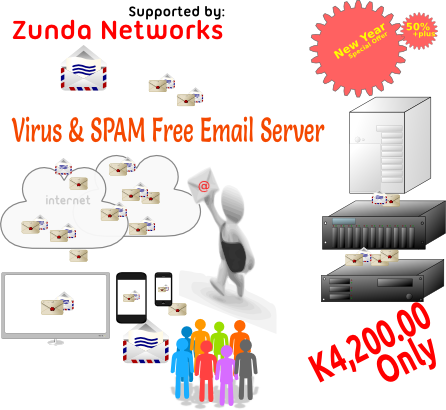
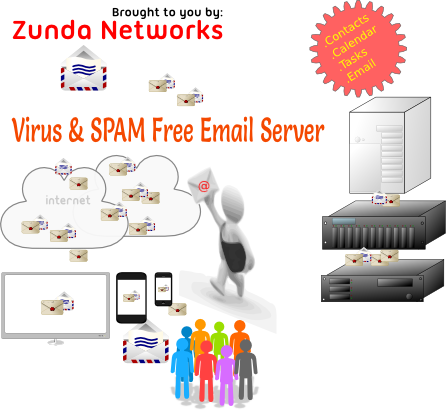
updated contact details & mail-server page

Changed region(s): [[0.6996, 0.7317, 0.991, 0.9366], [0.7287, 0.0293, 0.991, 0.2049], [0.2332, 0.0, 0.4955, 0.0585]]

diff --git a/contact/index.html b/contact/index.html
@@ -3,7 +3,7 @@ Compliant ICT technologies to allow business houses and home users to easily car
 motto:Conquer ICT ⟶ Improve Living standards"><meta name="keywords" content="CMS, nosql, website development, document management, search engine appliance, nodejs, angularjs, mobile first, database, email server, email, web server, ubuntu linux, linux, networking, zunda networks, zunda, networks, mobile, apps, monogdb, couchdb, pouchdb, indexeddb, javascript, php, python, css, html5, design, ux, gis, geospacial, map, sailsjs, zambia, it solutions, social, business, software, dynamic website, CRM, NoCMS, D3, D3.js, visualization, virtualisation"><meta name="author" content="Zunda Networks"><meta name="generator" content="DocPad v6.57.2" /><meta name="viewport" content="width=device-width"><!-- Icons--><link rel="shortcut icon" href="/ico/favicon.ico"><link rel="apple-touch-icon-precomposed" sizes="144x144" href="/ico/apple-touch-icon-144-precomposed.png"><link rel="apple-touch-icon-precomposed" sizes="114x114" href="/ico/apple-touch-icon-114-precomposed.png"><link rel="apple-touch-icon-precomposed" sizes="72x72" href="/ico/apple-touch-icon-72-precomposed.png"><link rel="apple-touch-icon-precomposed" href="/ico/apple-touch-icon-57-precomposed.png"><!--[if lt IE 9]><script async src="http://html5shim.googlecode.com/svn/trunk/html5.js"></script><![endif]--><!-- Styles--><link  rel="stylesheet" href="/vendor/prettify.css" /><link  rel="stylesheet" href="/vendor/twitter-bootstrap/css/bootstrap.css" /><link  rel="stylesheet" href="/vendor/twitter-bootstrap/css/bootstrap-responsive.css" /><link  rel="stylesheet" href="/vendor/colorbox/colorbox.css" /><link  rel="stylesheet" href="/styles/font.css" /><link  rel="stylesheet" href="/styles/style.css" /></head><body><!-- Markup--><div class="navbar navbar-fixed-top"><div class="navbar-inner"><div class="container"><a href="/" class="brand">Zunda Networks</a><ul class="nav"><li typeof="sioc:Page" about="/about/"><a href="/about/" property="dc:title">About Us</a></li><li typeof="sioc:Page" about="/services/"><a href="/services/" property="dc:title">What We Do</a></li><li typeof="sioc:Page" about="/projects/"><a href="/projects/" property="dc:title">Projects</a></li><li typeof="sioc:Page" about="/blog/"><a href="/blog/" property="dc:title">Blog</a></li><li typeof="sioc:Page" about="/contact/" class="active"><a href="/contact/" property="dc:title">Contact Us</a></li></ul><ul class="nav pull-right social"><li><a href="https://twitter.com/zundanetworks" title="Zunda Networks on Twitter" class="twitter"><span class="icon icon-twitter"></span></a></li><!--li<a href="https://linkedin.com/zundanetworks" title="Zunda Networks on Linkedin" class="linkedin"><span class="icon icon-linkedin">Linkedin</span></a>--><!--li<a href="https://facebook.com/zundanetworks" title="Zunda Networks on Facebook" class="facebook"><span class="icon icon-facebook"></span></a>--><li><a href="https://github.com/zundanetworks" title="Zunda Networks on Github" class="github"><i class="icon icon-github"></i></a></li><li><a href="/atom.xml" title="Zunda Networks RSS feed" class="rss"><i class="icon icon-feed"></i></a></li></ul></div></div></div><div class="container wrapper"><section id="content" class="content"><div class="container"><div class="hero-unit contact-form"><div class="row"><div class="span4"><p><strong><em>We would like to here from you.</em></strong></p>
 <p><strong>Zunda Networks</strong></p>
 <p>Lusaka, Zambia<br>
-<strong>Tel</strong>: +260-961-931568<br>
+<strong>Tel</strong>: +260-955-515819<br>
 <strong>Email</strong>: sales@zundanetworks.com<br>
 <strong>Hours</strong>: Monday - Friday: 8:00 AM to 5:00 PM</p>
[1 lines of base64/hex data omitted]

diff --git a/mail-server/index.html b/mail-server/index.html
@@ -1,3 +1,3 @@
-<!DOCTYPE html><html lang="en"><head><!-- Meta--><meta charset="utf-8"><meta http-equiv="content-type" content="text/html; charset=utf-8"><meta http-equiv="X-UA-Compatible" content="IE=edge,chrome=1"><title>Enterprise eMail Server for only K4,200.00 | Zunda Networks</title><meta name="description" content="Zunda Networks is an ICT Services outfit specialising in innovative application of “Open Source” and “Open Standards”
+<!DOCTYPE html><html lang="en"><head><!-- Meta--><meta charset="utf-8"><meta http-equiv="content-type" content="text/html; charset=utf-8"><meta http-equiv="X-UA-Compatible" content="IE=edge,chrome=1"><title>Enterprise eMail Server | Zunda Networks</title><meta name="description" content="Zunda Networks is an ICT Services outfit specialising in innovative application of “Open Source” and “Open Standards”
 Compliant ICT technologies to allow business houses and home users to easily carry out their day to day activities. Our products defy vendor lock-in.
-motto:Conquer ICT ⟶ Improve Living standards"><meta name="keywords" content="CMS, nosql, website development, document management, search engine appliance, nodejs, angularjs, mobile first, database, email server, email, web server, ubuntu linux, linux, networking, zunda networks, zunda, networks, mobile, apps, monogdb, couchdb, pouchdb, indexeddb, javascript, php, python, css, html5, design, ux, gis, geospacial, map, sailsjs, zambia, it solutions, social, business, software, dynamic website, CRM, NoCMS, D3, D3.js, visualization, virtualisation"><meta name="author" content="Zunda Networks"><meta name="generator" content="DocPad v6.57.2" /><meta name="viewport" content="width=device-width"><!-- Icons--><link rel="shortcut icon" href="/ico/favicon.ico"><link rel="apple-touch-icon-precomposed" sizes="144x144" href="/ico/apple-touch-icon-144-precomposed.png"><link rel="apple-touch-icon-precomposed" sizes="114x114" href="/ico/apple-touch-icon-114-precomposed.png"><link rel="apple-touch-icon-precomposed" sizes="72x72" href="/ico/apple-touch-icon-72-precomposed.png"><link rel="apple-touch-icon-precomposed" href="/ico/apple-touch-icon-57-precomposed.png"><!--[if lt IE 9]><script async src="http://html5shim.googlecode.com/svn/trunk/html5.js"></script><![endif]--><!-- Styles--><link  rel="stylesheet" href="/vendor/prettify.css" /><link  rel="stylesheet" href="/vendor/twitter-bootstrap/css/bootstrap.css" /><link  rel="stylesheet" href="/vendor/twitter-bootstrap/css/bootstrap-responsive.css" /><link  rel="stylesheet" href="/vendor/colorbox/colorbox.css" /><link  rel="stylesheet" href="/styles/font.css" /><link  rel="stylesheet" href="/styles/style.css" /></head><body><!-- Markup--><div class="navbar navbar-fixed-top"><div class="navbar-inner"><div class="container"><a href="/" class="brand">Zunda Networks</a><ul class="nav"><li typeof="sioc:Page" about="/about/"><a href="/about/" property="dc:title">About Us</a></li><li typeof="sioc:Page" about="/services/"><a href="/services/" property="dc:title">What We Do</a></li><li typeof="sioc:Page" about="/projects/"><a href="/projects/" property="dc:title">Projects</a></li><li typeof="sioc:Page" about="/blog/"><a href="/blog/" property="dc:title">Blog</a></li><li typeof="sioc:Page" about="/contact/"><a href="/contact/" property="dc:title">Contact Us</a></li></ul><ul class="nav pull-right social"><li><a href="https://twitter.com/zundanetworks" title="Zunda Networks on Twitter" class="twitter"><span class="icon icon-twitter"></span></a></li><!--li<a href="https://linkedin.com/zundanetworks" title="Zunda Networks on Linkedin" class="linkedin"><span class="icon icon-linkedin">Linkedin</span></a>--><!--li<a href="https://facebook.com/zundanetworks" title="Zunda Networks on Facebook" class="facebook"><span class="icon icon-facebook"></span></a>--><li><a href="https://github.com/zundanetworks" title="Zunda Networks on Github" class="github"><i class="icon icon-github"></i></a></li><li><a href="/atom.xml" title="Zunda Networks RSS feed" class="rss"><i class="icon icon-feed"></i></a></li></ul></div></div></div><div class="container wrapper"><section id="content" class="content"><article id="page" class="page"><h3 class="page-title">Enterprise eMail Server for only K4,200.00</h3><div class="page-content"><!-- Main hero unit for a primary marketing message or call to action.--><div class="hero-unit advert"><div class="row"><!--h2.page-title Enterprise eMail Server for only K4,200.00--><div class="span6"><img alt="Zunda Networks supported email server" src="/images/zunda-mail.png" style="float: left; width: auto"/><div style="text-decoration: line-through; font-style: italic; font-size: 21px; float: left; color:#333;" class="nomo-price">Usual Price : K9,300.00</div></div><div class="span6"><strong>Be Smart -> for only K4,200.00 get all this in our enterprise mail server<br></strong><!--span What you find in the box--><ol><li>Smart SPAM filtering</li><li>AntiVirus</li><li>Original sender verification</li><li>Virus free Operating System</li><li>1 Month free Zunda Networks support</li><li>Life time license</li><li>Unlimited email accounts</li><li>Calendar: Organize your time effectively and effortlessly, plan meetings with your colleagues with free/busy information, send meeting requests or book resources.</li><li>Address Book: Manage all your contacts and share them with others using the shared address book.</li><li>Task Management that works, allowing you to manage personal tasks or share them with colleagues to work much more effectively.</li><li>Group mailboxes and public folders can be used for all incoming support or sales emails</li><!--li--></ol><p><a href="/contact" style="text-align: left; font-size: 20px" class="btn btn-warning btn-large"><strong>Get in touch while offer lasts<br></strong><span style="text-align: left; font-size: 17px">sales@zundanetworks.com<br>Tel:+260-961-931568</span></a></p></div></div></div><!-- Example row of columns.--><div class="row"><div class="span"><p>Email has become a mission-critical application for any company, facilitating internal and external communication and collaboration. Our open source collaboration/groupware solution combines the usability of your existing mail clients like Outlook, Thunderbird etc, with its inbuilt webmail client and mobile device synchronisation.</p><p>The backend server thrives on the stability and flexibility of the virus free Linux Operating System</p><p>What we are offering you is a full replacement/alternative to Microsoft Exchange Server, with the added advantange of not running on a virus/malware prone Operating System that frees you from baby sitting a server, hence allowing your ICT staff to attend to more important tasks.</p></div></div></div></article></section><!--hr--></div><footer><div class="container"><hr><div>Copyright &copy; 2014 Zunda Networks</div><!--div(style="font-style:italic; font-size: 12px") This website was last updated at #{site.date}--></div></footer><!-- Scripts--><script defer="defer"  src="/vendor/prettify.js"></script><script defer="defer"  src="/vendor/jquery.js"></script><script defer="defer"  src="/vendor/twitter-bootstrap/js/bootstrap.js"></script><script defer="defer"  src="/vendor/modernizr.js"></script><script defer="defer"  src="/vendor/colorbox/colorbox.js"></script><script defer="defer"  src="/scripts/script.js"></script><script defer="defer"  src="/scripts/zunda.js"></script></body></html>
+motto:Conquer ICT ⟶ Improve Living standards"><meta name="keywords" content="CMS, nosql, website development, document management, search engine appliance, nodejs, angularjs, mobile first, database, email server, email, web server, ubuntu linux, linux, networking, zunda networks, zunda, networks, mobile, apps, monogdb, couchdb, pouchdb, indexeddb, javascript, php, python, css, html5, design, ux, gis, geospacial, map, sailsjs, zambia, it solutions, social, business, software, dynamic website, CRM, NoCMS, D3, D3.js, visualization, virtualisation"><meta name="author" content="Zunda Networks"><meta name="generator" content="DocPad v6.57.2" /><meta name="viewport" content="width=device-width"><!-- Icons--><link rel="shortcut icon" href="/ico/favicon.ico"><link rel="apple-touch-icon-precomposed" sizes="144x144" href="/ico/apple-touch-icon-144-precomposed.png"><link rel="apple-touch-icon-precomposed" sizes="114x114" href="/ico/apple-touch-icon-114-precomposed.png"><link rel="apple-touch-icon-precomposed" sizes="72x72" href="/ico/apple-touch-icon-72-precomposed.png"><link rel="apple-touch-icon-precomposed" href="/ico/apple-touch-icon-57-precomposed.png"><!--[if lt IE 9]><script async src="http://html5shim.googlecode.com/svn/trunk/html5.js"></script><![endif]--><!-- Styles--><link  rel="stylesheet" href="/vendor/prettify.css" /><link  rel="stylesheet" href="/vendor/twitter-bootstrap/css/bootstrap.css" /><link  rel="stylesheet" href="/vendor/twitter-bootstrap/css/bootstrap-responsive.css" /><link  rel="stylesheet" href="/vendor/colorbox/colorbox.css" /><link  rel="stylesheet" href="/styles/font.css" /><link  rel="stylesheet" href="/styles/style.css" /></head><body><!-- Markup--><div class="navbar navbar-fixed-top"><div class="navbar-inner"><div class="container"><a href="/" class="brand">Zunda Networks</a><ul class="nav"><li typeof="sioc:Page" about="/about/"><a href="/about/" property="dc:title">About Us</a></li><li typeof="sioc:Page" about="/services/"><a href="/services/" property="dc:title">What We Do</a></li><li typeof="sioc:Page" about="/projects/"><a href="/projects/" property="dc:title">Projects</a></li><li typeof="sioc:Page" about="/blog/"><a href="/blog/" property="dc:title">Blog</a></li><li typeof="sioc:Page" about="/contact/"><a href="/contact/" property="dc:title">Contact Us</a></li></ul><ul class="nav pull-right social"><li><a href="https://twitter.com/zundanetworks" title="Zunda Networks on Twitter" class="twitter"><span class="icon icon-twitter"></span></a></li><!--li<a href="https://linkedin.com/zundanetworks" title="Zunda Networks on Linkedin" class="linkedin"><span class="icon icon-linkedin">Linkedin</span></a>--><!--li<a href="https://facebook.com/zundanetworks" title="Zunda Networks on Facebook" class="facebook"><span class="icon icon-facebook"></span></a>--><li><a href="https://github.com/zundanetworks" title="Zunda Networks on Github" class="github"><i class="icon icon-github"></i></a></li><li><a href="/atom.xml" title="Zunda Networks RSS feed" class="rss"><i class="icon icon-feed"></i></a></li></ul></div></div></div><div class="container wrapper"><section id="content" class="content"><article id="page" class="page"><h3 class="page-title">Enterprise eMail Server</h3><div class="page-content"><!-- Main hero unit for a primary marketing message or call to action.--><div class="hero-unit advert"><div class="row"><!--h2.page-title Enterprise eMail Server for only K4,200.00--><div class="span6"><img alt="Zunda Networks supported email server" src="/images/zunda-mail.png" style="float: left; width: auto"/><!--div.nomo-price(style="text-decoration: line-through; font-style: italic; font-size: 21px; float: left; color:#333;").<Usual>Price : K</Usual>--></div><div class="span6"><!--strong Be Smart -> for only K get all this in our enterprise mail server<br>--><strong>Be Smart -> get all these features out of the box<br></strong><!--span What you find in the box--><ol><li>Smart SPAM filtering</li><li>AntiVirus</li><li>Original sender verification</li><li>Virus free Operating System</li><li>1 Month free Zunda Networks support</li><li>Life time license</li><!--li Unlimited email accounts--><li>Calendar: Organize your time effectively and effortlessly, plan meetings with your colleagues with free/busy information, send meeting requests or book resources.</li><li>Address Book: Manage all your contacts and share them with others using the shared address book.</li><li>Task Management that works, allowing you to manage personal tasks or share them with colleagues to work much more effectively.</li><li>Group mailboxes and public folders can be used for all incoming support or sales emails</li><!--li--></ol><p><a href="/contact" style="text-align: left; font-size: 20px" class="btn btn-warning btn-large"><strong>Get in touch<br></strong><span style="text-align: left; font-size: 17px">sales@zundanetworks.com<br>Tel:+260-955-515819</span></a></p></div></div></div><!-- Example row of columns.--><div class="row"><div class="span"><p>Email has become a mission-critical application for any company, facilitating internal and external communication and collaboration. Our open source collaboration/groupware solution combines the usability of your existing mail clients like Outlook, Thunderbird etc, with its inbuilt webmail client and mobile device synchronisation.</p><p>The backend server thrives on the stability and flexibility of the virus free Linux Operating System</p><p>What we are offering you is a full replacement/alternative to Microsoft Exchange Server, with the added advantange of not running on a virus/malware prone Operating System that frees you from baby sitting a server, hence allowing your ICT staff to attend to more important tasks.</p></div></div></div></article></section><!--hr--></div><footer><div class="container"><hr><div>Copyright &copy; 2014 Zunda Networks</div><!--div(style="font-style:italic; font-size: 12px") This website was last updated at #{site.date}--></div></footer><!-- Scripts--><script defer="defer"  src="/vendor/prettify.js"></script><script defer="defer"  src="/vendor/jquery.js"></script><script defer="defer"  src="/vendor/twitter-bootstrap/js/bootstrap.js"></script><script defer="defer"  src="/vendor/modernizr.js"></script><script defer="defer"  src="/vendor/colorbox/colorbox.js"></script><script defer="defer"  src="/scripts/script.js"></script><script defer="defer"  src="/scripts/zunda.js"></script></body></html>

diff --git a/index.html b/index.html
@@ -1,6 +1,6 @@
 <!DOCTYPE html><html lang="en"><head><!-- Meta--><meta charset="utf-8"><meta http-equiv="content-type" content="text/html; charset=utf-8"><meta http-equiv="X-UA-Compatible" content="IE=edge,chrome=1"><title>Conquer ICT ⟶ Improve Living standards | Zunda Networks</title><meta name="description" content="Zunda Networks is an ICT Services outfit specialising in innovative application of “Open Source” and “Open Standards”
 Compliant ICT technologies to allow business houses and home users to easily carry out their day to day activities. Our products defy vendor lock-in.
-motto:Conquer ICT ⟶ Improve Living standards"><meta name="keywords" content="CMS, nosql, website development, document management, search engine appliance, nodejs, angularjs, mobile first, database, email server, email, web server, ubuntu linux, linux, networking, zunda networks, zunda, networks, mobile, apps, monogdb, couchdb, pouchdb, indexeddb, javascript, php, python, css, html5, design, ux, gis, geospacial, map, sailsjs, zambia, it solutions, social, business, software, dynamic website, CRM, NoCMS, D3, D3.js, visualization, virtualisation"><meta name="author" content="Zunda Networks"><meta name="generator" content="DocPad v6.57.2" /><meta name="viewport" content="width=device-width"><!-- Icons--><link rel="shortcut icon" href="/ico/favicon.ico"><link rel="apple-touch-icon-precomposed" sizes="144x144" href="/ico/apple-touch-icon-144-precomposed.png"><link rel="apple-touch-icon-precomposed" sizes="114x114" href="/ico/apple-touch-icon-114-precomposed.png"><link rel="apple-touch-icon-precomposed" sizes="72x72" href="/ico/apple-touch-icon-72-precomposed.png"><link rel="apple-touch-icon-precomposed" href="/ico/apple-touch-icon-57-precomposed.png"><!--[if lt IE 9]><script async src="http://html5shim.googlecode.com/svn/trunk/html5.js"></script><![endif]--><!-- Styles--><link  rel="stylesheet" href="/vendor/prettify.css" /><link  rel="stylesheet" href="/vendor/twitter-bootstrap/css/bootstrap.css" /><link  rel="stylesheet" href="/vendor/twitter-bootstrap/css/bootstrap-responsive.css" /><link  rel="stylesheet" href="/vendor/colorbox/colorbox.css" /><link  rel="stylesheet" href="/styles/font.css" /><link  rel="stylesheet" href="/styles/style.css" /></head><body><!-- Markup--><div class="navbar navbar-fixed-top"><div class="navbar-inner"><div class="container"><a href="/" class="brand">Zunda Networks</a><ul class="nav"><li typeof="sioc:Page" about="/about/"><a href="/about/" property="dc:title">About Us</a></li><li typeof="sioc:Page" about="/services/"><a href="/services/" property="dc:title">What We Do</a></li><li typeof="sioc:Page" about="/projects/"><a href="/projects/" property="dc:title">Projects</a></li><li typeof="sioc:Page" about="/blog/"><a href="/blog/" property="dc:title">Blog</a></li><li typeof="sioc:Page" about="/contact/"><a href="/contact/" property="dc:title">Contact Us</a></li></ul><ul class="nav pull-right social"><li><a href="https://twitter.com/zundanetworks" title="Zunda Networks on Twitter" class="twitter"><span class="icon icon-twitter"></span></a></li><!--li<a href="https://linkedin.com/zundanetworks" title="Zunda Networks on Linkedin" class="linkedin"><span class="icon icon-linkedin">Linkedin</span></a>--><!--li<a href="https://facebook.com/zundanetworks" title="Zunda Networks on Facebook" class="facebook"><span class="icon icon-facebook"></span></a>--><li><a href="https://github.com/zundanetworks" title="Zunda Networks on Github" class="github"><i class="icon icon-github"></i></a></li><li><a href="/atom.xml" title="Zunda Networks RSS feed" class="rss"><i class="icon icon-feed"></i></a></li></ul></div></div></div><div class="container wrapper"><section id="content" class="content"><div class="row"><div class="span12"><!--Carousel==================================================--><div id="myCarousel" class="carousel slide"><ol class="carousel-indicators"><li data-slide-to="0" data-target="#myCarousel" class="active"></li><li data-slide-to="1" data-target="#myCarousel" class="n"></li><li data-slide-to="2" data-target="#myCarousel" class="n"></li></ol><div class="carousel-inner"><div class="item active"><div class="hero-unit advert"><div class="row"><!--h2.page-title Enterprise eMail Server for only K4,200.00--><div class="span6"><a href="/mail-server"><img alt="Zunda Networks supported email server" src="/images/zunda-mail.png" style="float: left; width: auto"/><div style="text-decoration: line-through; font-style: italic; font-size: 21px; float: left; color:#333;" class="nomo-price">Usual Price : K9,300.00</div></a></div><div class="span6"><strong>Be Smart -> for only K4,200.00 get all this in our enterprise mail server<br></strong><!--span What you find in the box--><ol><li>Smart SPAM filtering</li><li>AntiVirus</li><li>Original sender verification</li><li>Virus free Operating System</li><li>1 Month free Zunda Networks support</li><li>Life time license</li><li>Unlimited email accounts</li><li>Calendar: Organize your time effectively and effortlessly, plan meetings with your colleagues with free/busy information, send meeting requests or book resources.</li><li>Address Book: Manage all your contacts and share them with others using the shared address book.</li><li>Task Management that works, allowing you to manage personal tasks or share them with colleagues to work much more effectively.</li><li>Group mailboxes and public folders can be used for all incoming support or sales emails</li><!--li--></ol><div class="slide-action"><div class="pull-right"><a href="/mail-server" class="label"><i class="icon-th icon-white"></i>More...</a></div><a href="/contact" style="text-align: left; font-size: 20px" class="btn btn-warning btn-large"><strong>Get in touch while offer lasts<br></strong><span style="text-align: left; font-size: 17px">sales@zundanetworks.com<br>Tel:+260-961-931568            </span></a></div></div></div></div></div><div class="item"><div class="hero-unit"><h2 class="page-title">Zunda Networks </h2><span style="font-style: italic; color: #FF0000">Conquer ICT ⟶ Improve Living standards</span><p><p>Zunda Networks is an ICT services outfit specialising in innovative application of “Open Source” and “Open Standards” Compliant ICT technologies to allow business houses and home users to easily carry out their day to day activities. Our products defy vendor lock-in.</p>
+motto:Conquer ICT ⟶ Improve Living standards"><meta name="keywords" content="CMS, nosql, website development, document management, search engine appliance, nodejs, angularjs, mobile first, database, email server, email, web server, ubuntu linux, linux, networking, zunda networks, zunda, networks, mobile, apps, monogdb, couchdb, pouchdb, indexeddb, javascript, php, python, css, html5, design, ux, gis, geospacial, map, sailsjs, zambia, it solutions, social, business, software, dynamic website, CRM, NoCMS, D3, D3.js, visualization, virtualisation"><meta name="author" content="Zunda Networks"><meta name="generator" content="DocPad v6.57.2" /><meta name="viewport" content="width=device-width"><!-- Icons--><link rel="shortcut icon" href="/ico/favicon.ico"><link rel="apple-touch-icon-precomposed" sizes="144x144" href="/ico/apple-touch-icon-144-precomposed.png"><link rel="apple-touch-icon-precomposed" sizes="114x114" href="/ico/apple-touch-icon-114-precomposed.png"><link rel="apple-touch-icon-precomposed" sizes="72x72" href="/ico/apple-touch-icon-72-precomposed.png"><link rel="apple-touch-icon-precomposed" href="/ico/apple-touch-icon-57-precomposed.png"><!--[if lt IE 9]><script async src="http://html5shim.googlecode.com/svn/trunk/html5.js"></script><![endif]--><!-- Styles--><link  rel="stylesheet" href="/vendor/prettify.css" /><link  rel="stylesheet" href="/vendor/twitter-bootstrap/css/bootstrap.css" /><link  rel="stylesheet" href="/vendor/twitter-bootstrap/css/bootstrap-responsive.css" /><link  rel="stylesheet" href="/vendor/colorbox/colorbox.css" /><link  rel="stylesheet" href="/styles/font.css" /><link  rel="stylesheet" href="/styles/style.css" /></head><body><!-- Markup--><div class="navbar navbar-fixed-top"><div class="navbar-inner"><div class="container"><a href="/" class="brand">Zunda Networks</a><ul class="nav"><li typeof="sioc:Page" about="/about/"><a href="/about/" property="dc:title">About Us</a></li><li typeof="sioc:Page" about="/services/"><a href="/services/" property="dc:title">What We Do</a></li><li typeof="sioc:Page" about="/projects/"><a href="/projects/" property="dc:title">Projects</a></li><li typeof="sioc:Page" about="/blog/"><a href="/blog/" property="dc:title">Blog</a></li><li typeof="sioc:Page" about="/contact/"><a href="/contact/" property="dc:title">Contact Us</a></li></ul><ul class="nav pull-right social"><li><a href="https://twitter.com/zundanetworks" title="Zunda Networks on Twitter" class="twitter"><span class="icon icon-twitter"></span></a></li><!--li<a href="https://linkedin.com/zundanetworks" title="Zunda Networks on Linkedin" class="linkedin"><span class="icon icon-linkedin">Linkedin</span></a>--><!--li<a href="https://facebook.com/zundanetworks" title="Zunda Networks on Facebook" class="facebook"><span class="icon icon-facebook"></span></a>--><li><a href="https://github.com/zundanetworks" title="Zunda Networks on Github" class="github"><i class="icon icon-github"></i></a></li><li><a href="/atom.xml" title="Zunda Networks RSS feed" class="rss"><i class="icon icon-feed"></i></a></li></ul></div></div></div><div class="container wrapper"><section id="content" class="content"><div class="row"><div class="span12"><!--Carousel==================================================--><div id="myCarousel" class="carousel slide"><ol class="carousel-indicators"><li data-slide-to="0" data-target="#myCarousel" class="active"></li><li data-slide-to="1" data-target="#myCarousel" class="n"></li><li data-slide-to="2" data-target="#myCarousel" class="n"></li></ol><div class="carousel-inner"><div class="item active"><div class="hero-unit advert"><div class="row"><!--h2.page-title Enterprise eMail Server for only K--><div class="span6"><a href="/mail-server"><img alt="Zunda Networks supported email server" src="/images/zunda-mail.png" style="float: left; width: auto"/><!--div.nomo-price(style="text-decoration: line-through; font-style: italic; font-size: 21px; float: left; color:#333;").<Usual>Price : K</Usual>--></a></div><div class="span6"><strong>Be Smart -> get all these features out of the box<br></strong><!--span What you find in the box--><ol><li>Smart SPAM filtering</li><li>AntiVirus</li><li>Original sender verification</li><li>Virus free Operating System</li><li>1 Month free Zunda Networks support</li><li>Life time license</li><li>Unlimited email accounts</li><li>Calendar: Organize your time effectively and effortlessly, plan meetings with your colleagues with free/busy information, send meeting requests or book resources.</li><li>Address Book: Manage all your contacts and share them with others using the shared address book.</li><li>Task Management that works, allowing you to manage personal tasks or share them with colleagues to work much more effectively.</li><li>Group mailboxes and public folders can be used for all incoming support or sales emails</li><!--li--></ol><div class="slide-action"><div class="pull-right"><a href="/mail-server" class="label"><i class="icon-th icon-white"></i>More...</a></div><a href="/contact" style="text-align: left; font-size: 20px" class="btn btn-warning btn-large"><strong>Get in touch<br></strong><span style="text-align: left; font-size: 17px">sales@zundanetworks.com<br>Tel:+260-955-515819</span></a></div></div></div></div></div><div class="item"><div class="hero-unit"><h2 class="page-title">Zunda Networks </h2><span style="font-style: italic; color: #FF0000">Conquer ICT ⟶ Improve Living standards</span><p><p>Zunda Networks is an ICT services outfit specialising in innovative application of “Open Source” and “Open Standards” Compliant ICT technologies to allow business houses and home users to easily carry out their day to day activities. Our products defy vendor lock-in.</p>
 </p></div></div><div class="item"><div class="hero-unit advert"><div class="row"><div class="span6"><a href="/2014/01/31/customer-dashboard-with-html5-angularjs"><img alt="Customer Management &amp; Billing System" src="/images/slide/cmbs.png" style="float: left; width: auto"/></a></div><div class="span6"><p><p><strong>Customer Dashboard: Fun with with HTML5, NoSQL, Angurlarjs and D3.js</strong></p>
 <p>Realtime Single Page Application(SPA) Customer Mangement &amp; Billing System built on HTML5.</p>
 <p><strong>Features include...</strong></p>

diff --git a/contactresponse/index.html b/contactresponse/index.html
@@ -1,9 +1,9 @@
 <!DOCTYPE html><html lang="en"><head><!-- Meta--><meta charset="utf-8"><meta http-equiv="content-type" content="text/html; charset=utf-8"><meta http-equiv="X-UA-Compatible" content="IE=edge,chrome=1"><title>Contact Us | Zunda Networks</title><meta name="description" content="Zunda Networks is an ICT Services outfit specialising in innovative application of “Open Source” and “Open Standards”
 Compliant ICT technologies to allow business houses and home users to easily carry out their day to day activities. Our products defy vendor lock-in.
 motto:Conquer ICT ⟶ Improve Living standards"><meta name="keywords" content="CMS, nosql, website development, document management, search engine appliance, nodejs, angularjs, mobile first, database, email server, email, web server, ubuntu linux, linux, networking, zunda networks, zunda, networks, mobile, apps, monogdb, couchdb, pouchdb, indexeddb, javascript, php, python, css, html5, design, ux, gis, geospacial, map, sailsjs, zambia, it solutions, social, business, software, dynamic website, CRM, NoCMS, D3, D3.js, visualization, virtualisation"><meta name="author" content="Zunda Networks"><meta name="generator" content="DocPad v6.57.2" /><meta name="viewport" content="width=device-width"><!-- Icons--><link rel="shortcut icon" href="/ico/favicon.ico"><link rel="apple-touch-icon-precomposed" sizes="144x144" href="/ico/apple-touch-icon-144-precomposed.png"><link rel="apple-touch-icon-precomposed" sizes="114x114" href="/ico/apple-touch-icon-114-precomposed.png"><link rel="apple-touch-icon-precomposed" sizes="72x72" href="/ico/apple-touch-icon-72-precomposed.png"><link rel="apple-touch-icon-precomposed" href="/ico/apple-touch-icon-57-precomposed.png"><!--[if lt IE 9]><script async src="http://html5shim.googlecode.com/svn/trunk/html5.js"></script><![endif]--><!-- Styles--><link  rel="stylesheet" href="/vendor/prettify.css" /><link  rel="stylesheet" href="/vendor/twitter-bootstrap/css/bootstrap.css" /><link  rel="stylesheet" href="/vendor/twitter-bootstrap/css/bootstrap-responsive.css" /><link  rel="stylesheet" href="/vendor/colorbox/colorbox.css" /><link  rel="stylesheet" href="/styles/font.css" /><link  rel="stylesheet" href="/styles/style.css" /></head><body><!-- Markup--><div class="navbar navbar-fixed-top"><div class="navbar-inner"><div class="container"><a href="/" class="brand">Zunda Networks</a><ul class="nav"><li typeof="sioc:Page" about="/about/"><a href="/about/" property="dc:title">About Us</a></li><li typeof="sioc:Page" about="/services/"><a href="/services/" property="dc:title">What We Do</a></li><li typeof="sioc:Page" about="/projects/"><a href="/projects/" property="dc:title">Projects</a></li><li typeof="sioc:Page" about="/blog/"><a href="/blog/" property="dc:title">Blog</a></li><li typeof="sioc:Page" about="/contact/"><a href="/contact/" property="dc:title">Contact Us</a></li></ul><ul class="nav pull-right social"><li><a href="https://twitter.com/zundanetworks" title="Zunda Networks on Twitter" class="twitter"><span class="icon icon-twitter"></span></a></li><!--li<a href="https://linkedin.com/zundanetworks" title="Zunda Networks on Linkedin" class="linkedin"><span class="icon icon-linkedin">Linkedin</span></a>--><!--li<a href="https://facebook.com/zundanetworks" title="Zunda Networks on Facebook" class="facebook"><span class="icon icon-facebook"></span></a>--><li><a href="https://github.com/zundanetworks" title="Zunda Networks on Github" class="github"><i class="icon icon-github"></i></a></li><li><a href="/atom.xml" title="Zunda Networks RSS feed" class="rss"><i class="icon icon-feed"></i></a></li></ul></div></div></div><div class="container wrapper"><section id="content" class="content"><div class="container"><div class="hero-unit contact-form"><div class="row"><div class="span4"><p><strong><em>We would like to here from you.</em></strong></p>
-<p><strong>Zunda Networks</strong><br>Chimanga rd 20, Chilenje South,<br>
-Lusaka, Zambia<br></p>
-<p><strong>Tel</strong>: +260-961-931568<br>
+<p><strong>Zunda Networks</strong></p>
+<p>Lusaka, Zambia<br>
+<strong>Tel</strong>: +260-955-515819<br>
 <strong>Email</strong>: sales@zundanetworks.com<br>
 <strong>Hours</strong>: Monday - Friday: 8:00 AM to 5:00 PM</p>
[1 lines of base64/hex data omitted]

diff --git a/about/index.html b/about/index.html
@@ -5,7 +5,7 @@ application of “Open Source” and “Open Standards” Compliant ICT
 technologies to allow business houses and home users to easily carry
 out their day to day activities. Our products defy vendor lock-in.
 </p><div class="address"><p><strong>Location</strong>: Lusaka, Zambia<br>
-<strong>Tel</strong>: +260-961-931568<br>
+<strong>Tel</strong>: +260-955-515819<br>
 <strong>Email</strong>: sales@zundanetworks.com<br>
 <strong>Hours</strong>: Monday - Friday: 8:00 AM to 5:00 PM</p>
 </div></div><div class="row"><div class="span6"><strong>Our Mission <br></strong><span>To deliver integrated, comprehensive and innovative business and home ICT solutions(FOSS based and Open Standards Compliant) that defy vendor lock-in.</span></div><div class="span6"><strong>Our Vision: <br></strong><span>To be a major player in the Advancement of ICTs and Improve Standards of Living</span></div></div></section><!--hr--></div><footer><div class="container"><hr><div>Copyright &copy; 2014 Zunda Networks</div><!--div(style="font-style:italic; font-size: 12px") This website was last updated at #{site.date}--></div></footer><!-- Scripts--><script defer="defer"  src="/vendor/prettify.js"></script><script defer="defer"  src="/vendor/jquery.js"></script><script defer="defer"  src="/vendor/twitter-bootstrap/js/bootstrap.js"></script><script defer="defer"  src="/vendor/modernizr.js"></script><script defer="defer"  src="/vendor/colorbox/colorbox.js"></script><script defer="defer"  src="/scripts/script.js"></script><script defer="defer"  src="/scripts/zunda.js"></script></body></html>

diff --git a/mail-server.html b/mail-server.html
@@ -1,7 +1,7 @@
 <!DOCTYPE html>
 <html>
 	<head>
-		<title>Enterprise eMail Server for only K4,200.00</title>
+		<title>Enterprise eMail Server</title>
 		<meta http-equiv="REFRESH" content="0;url=/mail-server/">
 	</head>
 	<body>
